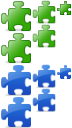
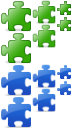
Bug 512072 : TB toolbar buttons. Final image tweaks.
git-svn-id: http://svn.mozilla.org/addons/trunk@51206 4eb1ac78-321c-0410-a911-ec516a8615a5

Changed region(s): [[0.7778, 0.625, 1.0, 0.75], [0.7778, 0.125, 1.0, 0.25]]

diff --git a/bandwagon/skin/platform/vista/browserOverlay.css b/bandwagon/skin/platform/vista/browserOverlay.css
@@ -73,6 +73,5 @@
 }
 
 [iconsize="small"] .bandwagon-button-tb:hover  {
-  /*-moz-image-region: rect(80px, 72px, 96px, 56px);*/
-  -moz-image-region: rect(64px, 72px, 80px, 56px);
+  -moz-image-region: rect(80px, 72px, 96px, 56px);
 }

diff --git a/bandwagon/skin/platform/xp/browserOverlay.css b/bandwagon/skin/platform/xp/browserOverlay.css
@@ -73,6 +73,5 @@
 }
 
 [iconsize="small"] .bandwagon-button-tb:hover  {
-  /*-moz-image-region: rect(16px, 72px, 32px, 56px);*/
-  -moz-image-region: rect(0px, 72px, 16px, 56px);
+  -moz-image-region: rect(16px, 72px, 32px, 56px);
 }
